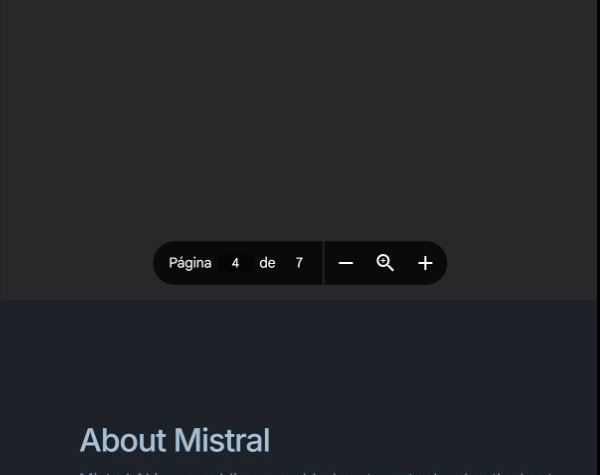
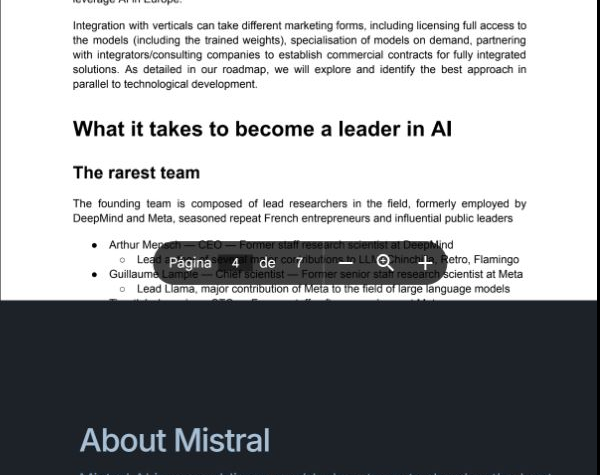
docs: add real Mistral pitch deck analysis

diff --git a/proyectos/marca-personal/documentos/pitch-decks/mistral-pagina-por-pagina.md b/proyectos/marca-personal/documentos/pitch-decks/mistral-pagina-por-pagina.md
@@ -1,72 +1,99 @@
 # Mistral AI — pitch deck página por página
 
-Fuente: [Mistral AI — Best Pitch Deck](https://bestpitchdeck.com/mistral)
+Fuente: [Mistral AI Pitch Deck — Best Pitch Deck](https://bestpitchdeck.com/mistral)
 
-Cada bloque contiene la captura de la página correspondiente y una lectura breve de cómo contribuye a comunicar valor. Las interpretaciones son estratégicas y no una transcripción literal completa.
+Esta versión usa las páginas reales del visor del deck y resume los argumentos visibles en cada página. Las cifras que aparecen en el deck son históricas y deben volver a validarse antes de usarlas en un pitch actual.
 
-+<details>
-<summary><strong>Página 1</strong></summary>
+<details>
+<summary><strong>Página 1 — La IA generativa crea una nueva categoría de productividad</strong></summary>
 
 ![Mistral AI — página 1](mistral/pagina-01.png)
 
-**Cómo comunica valor:** esta página aporta evidencia visual a la narrativa del deck. Su función es ayudar al lector a entender el problema, producto, mercado, tracción o ventaja competitiva que la empresa está construyendo. El valor se comunica al convertir una afirmación abstracta en una señal concreta que un cliente, socio o inversionista puede evaluar.
+La página presenta la IA generativa como una tecnología transformadora: creación de contenido, procesamiento de información no estructurada y ejecución de flujos de trabajo. También plantea un mercado creciente y sostiene que el valor se concentra en los modelos difíciles de entrenar.
+
+**Cómo genera valor:** convierte una tecnología compleja en una oportunidad económica amplia. Para un inversionista, conecta capacidad técnica con productividad y tamaño de mercado.
 
 </details>
 
 <details>
-<summary><strong>Página 2</strong></summary>
+<summary><strong>Página 2 — Europa necesita un contendiente y las soluciones cerradas tienen límites</strong></summary>
 
 ![Mistral AI — página 2](mistral/pagina-02.png)
 
-**Cómo comunica valor:** esta página aporta evidencia visual a la narrativa del deck. Su función es ayudar al lector a entender el problema, producto, mercado, tracción o ventaja competitiva que la empresa está construyendo. El valor se comunica al convertir una afirmación abstracta en una señal concreta que un cliente, socio o inversionista puede evaluar.
+La página explica que pocos actores dominan los modelos generativos y que los principales están en Estados Unidos. Después presenta problemas de los modelos cerrados: datos sensibles enviados a nubes públicas, dificultad de inspección, problemas legales y poca flexibilidad para integrarlos con otros componentes.
+
+**Cómo genera valor:** transforma una debilidad del mercado en una oportunidad para Mistral: ofrecer modelos más abiertos, controlables e integrables para empresas europeas.
 
 </details>
 
 <details>
-<summary><strong>Página 3</strong></summary>
+<summary><strong>Página 3 — Posicionamiento tecnológico abierto</strong></summary>
 
 ![Mistral AI — página 3](mistral/pagina-03.png)
 
-**Cómo comunica valor:** esta página aporta evidencia visual a la narrativa del deck. Su función es ayudar al lector a entender el problema, producto, mercado, tracción o ventaja competitiva que la empresa está construyendo. El valor se comunica al convertir una afirmación abstracta en una señal concreta que un cliente, socio o inversionista puede evaluar.
+La propuesta incluye licencias abiertas, acceso a los componentes internos, mayor control de datos, especialización por industria y despliegue en nubes privadas o dispositivos.
+
+**Cómo genera valor:** el cliente empresarial obtiene más control, privacidad y capacidad de adaptar el modelo a sus flujos. La apertura también puede acelerar una comunidad de desarrolladores y aplicaciones posteriores.
 
 </details>
 
 <details>
-<summary><strong>Página 4</strong></summary>
+<summary><strong>Página 4 — Desarrollo comercial y equipo fundador</strong></summary>
 
 ![Mistral AI — página 4](mistral/pagina-04.png)
 
-**Cómo comunica valor:** esta página aporta evidencia visual a la narrativa del deck. Su función es ayudar al lector a entender el problema, producto, mercado, tracción o ventaja competitiva que la empresa está construyendo. El valor se comunica al convertir una afirmación abstracta en una señal concreta que un cliente, socio o inversionista puede evaluar.
+La página conecta el producto con integradores e industrias europeas y presenta un equipo con experiencia en DeepMind, Meta, Llama, emprendimiento y política digital.
+
+**Cómo genera valor:** la combinación de tecnología, distribución y credibilidad reduce el riesgo percibido. No se presenta solo una idea; se presenta un equipo capaz de construir el componente técnico y llevarlo a clientes.
 
 </details>
 
 <details>
-<summary><strong>Página 5</strong></summary>
+<summary><strong>Página 5 — Infraestructura, datos y acceso a clientes</strong></summary>
 
 ![Mistral AI — página 5](mistral/pagina-05.png)
 
-**Cómo comunica valor:** esta página aporta evidencia visual a la narrativa del deck. Su función es ayudar al lector a entender el problema, producto, mercado, tracción o ventaja competitiva que la empresa está construyendo. El valor se comunica al convertir una afirmación abstracta en una señal concreta que un cliente, socio o inversionista puede evaluar.
+La página explica que entrenar modelos competitivos requiere infraestructura de cómputo, datos de calidad y relaciones con clientes industriales. También plantea desarrollar modelos junto con integradores y socios pequeños.
+
+**Cómo genera valor:** muestra los recursos necesarios para crear una barrera de entrada y, al mismo tiempo, una ruta de aprendizaje comercial. El cliente ayuda a definir el producto mientras el producto mejora con casos reales.
 
 </details>
 
 <details>
-<summary><strong>Página 6</strong></summary>
+<summary><strong>Página 6 — Roadmap de modelos y aplicaciones empresariales</strong></summary>
 
 ![Mistral AI — página 6](mistral/pagina-06.png)
 
-**Cómo comunica valor:** esta página aporta evidencia visual a la narrativa del deck. Su función es ayudar al lector a entender el problema, producto, mercado, tracción o ventaja competitiva que la empresa está construyendo. El valor se comunica al convertir una afirmación abstracta en una señal concreta que un cliente, socio o inversionista puede evaluar.
+El roadmap plantea entrenar modelos abiertos, ofrecer APIs, crear modelos de embeddings y plugins multimodales, especializar modelos con datos negociados y demostrar integraciones empresariales.
+
+**Cómo genera valor:** convierte la visión en una secuencia verificable de hitos técnicos y comerciales. Cada hito aumenta la utilidad: primero el modelo, luego la búsqueda, la multimodalidad, la especialización y la integración.
 
 </details>
 
 <details>
-<summary><strong>Página 7</strong></summary>
+<summary><strong>Página 7 — Seguridad, financiación y liderazgo europeo</strong></summary>
 
 ![Mistral AI — página 7](mistral/pagina-07.png)
 
-**Cómo comunica valor:** esta página aporta evidencia visual a la narrativa del deck. Su función es ayudar al lector a entender el problema, producto, mercado, tracción o ventaja competitiva que la empresa está construyendo. El valor se comunica al convertir una afirmación abstracta en una señal concreta que un cliente, socio o inversionista puede evaluar.
+El cierre presenta las siguientes etapas: competir con actores como OpenAI, usar red teams para probar seguridad, ganar la confianza de instituciones y levantar capital para modelos de mayor escala.
+
+**Cómo genera valor:** cierra la historia con una ambición grande, pero la acompaña con seguridad, control y una ruta de financiación. El mensaje final es que la empresa quiere ser un proveedor confiable para la industria europea.
 
 </details>
 
-## Lectura general
+## Estructura que puede servirle a CodeFlow
 
-El deck debe leerse como una secuencia de problema, solución, evidencia y oportunidad. La creación de valor está en mostrar por qué la empresa merece atención y qué cambia para el usuario o el mercado si adopta su producto.
+El deck de Mistral usa una secuencia útil:
+
+1. tecnología transformadora;
+2. problema de las soluciones actuales;
+3. diferenciador técnico;
+4. equipo;
+5. infraestructura y clientes;
+6. roadmap;
+7. visión y financiación.
+
+Para CodeFlow, la adaptación podría ser: adopción de IA → problema de herramientas aisladas → ecosistema conectado → casos propios → modelo recurrente → roadmap de implementación → relación de largo plazo.
+
+> Nota: las imágenes ya corresponden a las páginas reales capturadas desde el visor del deck. Las referencias numéricas históricas del documento original no deben reutilizarse sin una nueva validación.
+
